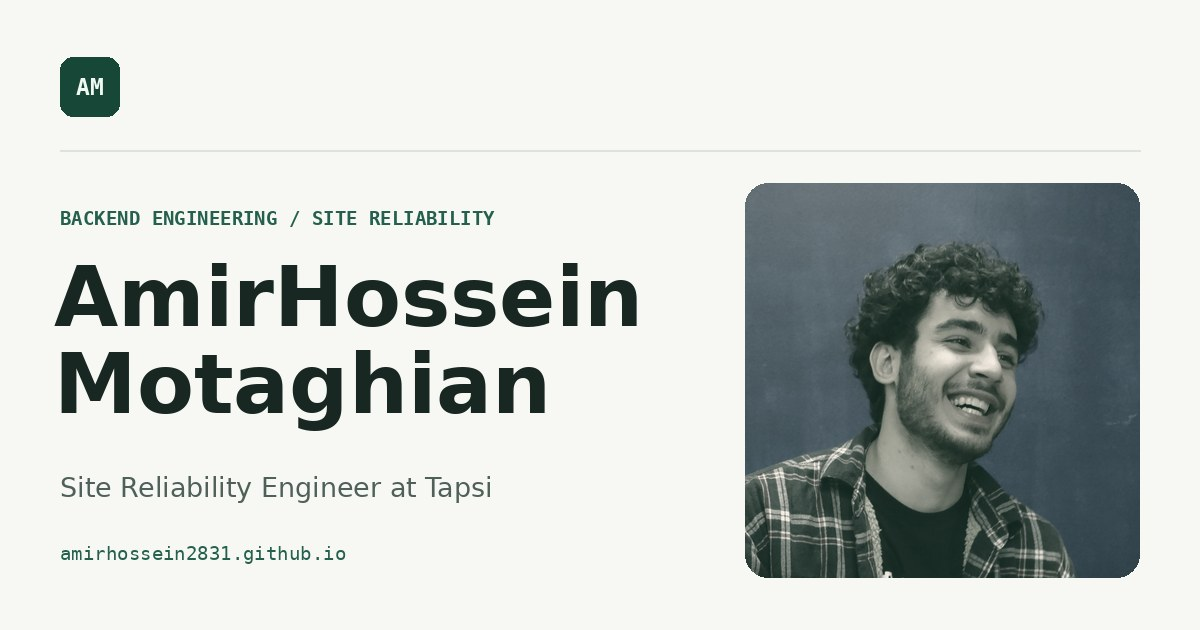
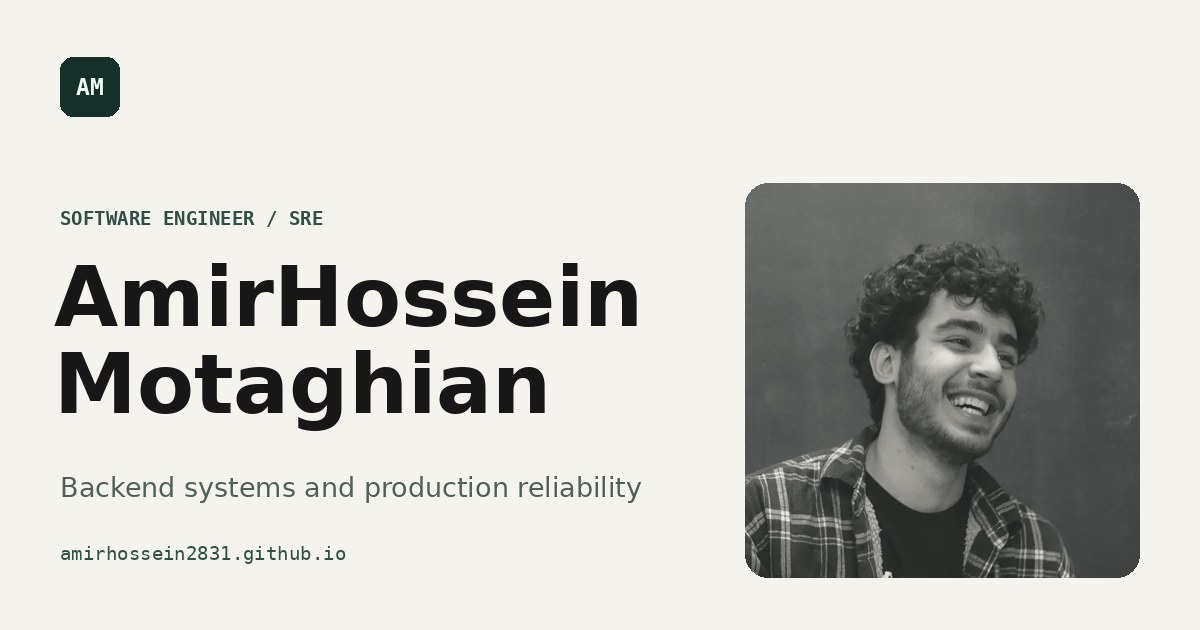
Adapt portfolio to software engineer SRE direction

Changed region(s): [[0.0308, 0.754, 0.555, 0.8143], [0.0308, 0.3317, 0.4317, 0.3619], [0.0308, 0.0905, 0.1233, 0.181]]

diff --git a/index.html b/index.html
@@ -3,20 +3,20 @@
 <head>
   <meta charset="utf-8">
   <meta name="viewport" content="width=device-width, initial-scale=1">
-  <title>AmirHossein Motaghian | Backend Engineer &amp; SRE</title>
-  <meta name="description" content="AmirHossein Motaghian is a Site Reliability Engineer at Tapsi. Explore his work on backend systems, Kubernetes, production reliability, and Go projects.">
+  <title>AmirHossein Motaghian | Software Engineer / SRE</title>
+  <meta name="description" content="AmirHossein Motaghian is a Software Engineer / SRE at Tapsi, building backend systems, distributed services, and production reliability tooling.">
   <link rel="canonical" href="https://amirhossein2831.github.io/">
   <meta property="og:type" content="website">
   <meta property="og:site_name" content="AmirHossein Motaghian">
-  <meta property="og:title" content="AmirHossein Motaghian | Backend Engineer &amp; SRE">
-  <meta property="og:description" content="Backend systems and production reliability. Selected work from Tapsi and public projects in Go and Kubernetes.">
+  <meta property="og:title" content="AmirHossein Motaghian | Software Engineer / SRE">
+  <meta property="og:description" content="Software Engineer / SRE building backend systems, distributed services, and production reliability tooling at Tapsi.">
   <meta property="og:url" content="https://amirhossein2831.github.io/">
   <meta property="og:image" content="https://amirhossein2831.github.io/assets/images/social-card.jpg">
   <meta property="og:image:width" content="1200">
   <meta property="og:image:height" content="630">
-  <meta property="og:image:alt" content="AmirHossein Motaghian — Backend engineering and site reliability">
+  <meta property="og:image:alt" content="AmirHossein Motaghian — Software Engineer / SRE">
   <meta name="twitter:card" content="summary_large_image">
-  <meta name="theme-color" content="#f7f8f4">
+  <meta name="theme-color" content="#f5f3ee">
   <link rel="icon" href="./assets/images/favicon.svg" type="image/svg+xml">
   <link rel="stylesheet" href="./assets/css/site.css">
   <script type="application/ld+json">
@@ -30,7 +30,7 @@
         "name": "AmirHossein Motaghian",
         "url": "https://amirhossein2831.github.io/",
         "image": "https://amirhossein2831.github.io/assets/images/portrait-760.webp",
-        "jobTitle": "Site Reliability Engineer",
+        "jobTitle": "Software Engineer / SRE",
         "worksFor": {"@type": "Organization", "name": "Tapsi", "url": "https://tapsi.ir/"},
         "sameAs": [
           "https://github.com/amirhossein2831",
@@ -40,7 +40,7 @@
     }
   </script>
 </head>
-<body>
+<body class="home-page">
   <a class="skip-link" href="#main-content">Skip to content</a>
   <header class="site-header">
     <div class="wrap header-inner">
@@ -50,9 +50,9 @@
       </a>
       <nav aria-label="Main">
         <ul class="nav-list">
-          <li><a href="./index.html" aria-current="page">Home</a></li>
-          <li><a href="./projects.html">Work</a></li>
-          <li><a href="./more.html">Experience</a></li>
+          <li><a href="#about" aria-current="page">About</a></li>
+          <li><a href="./more.html#skills">Skills</a></li>
+          <li><a href="./projects.html">Portfolio</a></li>
           <li><a href="#contact">Contact</a></li>
         </ul>
       </nav>
@@ -60,56 +60,81 @@
   </header>
 
   <main id="main-content" class="wrap" tabindex="-1">
-    <section class="hero" aria-labelledby="intro-title">
-      <div class="hero-copy">
-        <p class="eyebrow"><span class="marker" aria-hidden="true"></span> Backend engineering / Site reliability</p>
-        <h1 id="intro-title">AmirHossein<br>Motaghian</h1>
-        <p class="hero-lead">I build backend services and keep them reliable in production.</p>
-        <p class="intro-copy">I’m a Site Reliability Engineer at <a href="https://tapsi.ir/">Tapsi</a>, a ride-hailing platform in Iran. I work on outage detection, incident response, and failover across datacenters. Before moving into SRE, I built event-driven services and real-time rider features at Tapsi.</p>
-        <div class="actions">
-          <a class="button button-primary" href="#selected-work">Explore my work <span aria-hidden="true">↓</span></a>
-          <a class="button button-secondary" href="./more.html">View experience <span aria-hidden="true">→</span></a>
+    <section id="about" class="hero" aria-labelledby="intro-title">
+      <div class="hero-panel hero-panel-light">
+        <div class="hero-copy">
+          <p class="hero-greeting">Hi, I’m</p>
+          <h1 id="intro-title">AmirHossein<br>Motaghian</h1>
+          <p class="hero-role">Software Engineer <span aria-hidden="true">/</span> SRE</p>
+          <p class="intro-copy">I build backend systems and the infrastructure that keeps them dependable. At <a href="https://tapsi.ir/">Tapsi</a>, I work across application code, observability, incident response, and multi-datacenter reliability.</p>
+          <div class="actions">
+            <a class="button button-primary" href="./projects.html">View portfolio <span aria-hidden="true">↗</span></a>
+            <a class="button button-secondary" href="mailto:amirmotaghian0994@gmail.com">Contact me <span aria-hidden="true">↗</span></a>
+          </div>
         </div>
       </div>
-      <figure class="portrait">
-        <div class="portrait-image">
-          <img src="./assets/images/portrait-380.webp" srcset="./assets/images/portrait-380.webp 380w, ./assets/images/portrait-760.webp 760w" sizes="(max-width: 28rem) calc(100vw - 2.5rem), 380px" width="380" height="380" alt="Portrait of AmirHossein Motaghian" fetchpriority="high">
+      <div class="hero-panel hero-panel-dark">
+        <div class="hero-side-content">
+          <p class="hero-side-label">Backend systems<br>&amp; reliability</p>
+          <figure class="portrait">
+            <div class="portrait-image">
+              <img src="./assets/images/portrait-380.webp" srcset="./assets/images/portrait-380.webp 380w, ./assets/images/portrait-760.webp 760w" sizes="(max-width: 44rem) calc(100vw - 2.5rem), 380px" width="380" height="380" alt="Portrait of AmirHossein Motaghian" fetchpriority="high">
+            </div>
+            <figcaption><span class="marker" aria-hidden="true"></span> Tehran, Iran</figcaption>
+          </figure>
+          <p class="hero-side-note">Turning complex systems into clear, observable, and resilient services.</p>
         </div>
-        <figcaption><span class="marker" aria-hidden="true"></span> SRE at Tapsi <span class="portrait-location">Tehran, Iran</span></figcaption>
-      </figure>
+      </div>
     </section>
 
-    <dl class="highlights" aria-label="Production work at a glance">
-      <div><dt>200 engineers</dt><dd>Across 20 teams supported by Heimdall</dd></div>
-      <div><dt>2 datacenters</dt><dd>Covered by active-standby failover design</dd></div>
-      <div><dt>50%+ fewer HTTP 429s</dt><dd>After Nginx rate-limit and caching fixes</dd></div>
-    </dl>
+    <section class="about-strip" aria-label="Professional focus">
+      <p class="eyebrow">Software engineering / Site reliability</p>
+      <p class="about-statement">From event-driven services to production incident management, I enjoy working where application code meets the systems underneath it.</p>
+      <div class="about-links">
+        <a class="text-link" href="./more.html">Read my experience <span aria-hidden="true">→</span></a>
+        <a class="text-link" href="https://github.com/amirhossein2831">GitHub profile <span aria-hidden="true">↗</span></a>
+      </div>
+    </section>
+
+    <section class="impact-section" aria-labelledby="impact-title">
+      <div class="section-heading">
+        <div>
+          <p class="eyebrow">01 / At a glance</p>
+          <h2 id="impact-title">Work that reaches production</h2>
+        </div>
+      </div>
+      <dl class="highlights" aria-label="Production work at a glance">
+        <div><dt>200 engineers</dt><dd>Across 20 teams supported by Heimdall</dd></div>
+        <div><dt>2 datacenters</dt><dd>Covered by active-standby failover design</dd></div>
+        <div><dt>50%+ fewer HTTP 429s</dt><dd>After Nginx rate-limit and caching fixes</dd></div>
+      </dl>
+    </section>
 
     <section id="selected-work" class="section" aria-labelledby="work-title">
       <div class="section-heading">
         <div>
-          <p class="eyebrow">01 / Selected work</p>
+          <p class="eyebrow">02 / Selected work</p>
           <h2 id="work-title">Projects and production work</h2>
         </div>
-        <a class="text-link" href="./projects.html">See all work <span aria-hidden="true">→</span></a>
+        <a class="text-link" href="./projects.html">See full portfolio <span aria-hidden="true">→</span></a>
       </div>
       <div class="card-grid">
         <article class="card">
           <p class="card-type"><span aria-hidden="true">01</span> Production · Tapsi</p>
           <h3><a href="./projects.html#heimdall">Heimdall</a></h3>
-          <p>I built Tapsi’s in-house incident management platform to bring alert routing, escalation, triage, and postmortems into one place.</p>
+          <p>Incident lifecycle, alert escalation, structured postmortems, and availability reporting in one internal platform.</p>
           <p class="card-detail">Replaced Grafana OnCall</p>
         </article>
         <article class="card">
           <p class="card-type"><span aria-hidden="true">02</span> Production · Tapsi</p>
           <h3><a href="./projects.html#event-streaming">Kafka event streaming</a></h3>
-          <p>I built producers and consumers and designed partitioning, retries, and backpressure handling for services under sustained load.</p>
+          <p>Event producers, consumers, partitioning, retries, consumer groups, and backpressure-aware services.</p>
           <p class="card-detail">Kafka · Project Reactor</p>
         </article>
         <article class="card">
           <p class="card-type"><span aria-hidden="true">03</span> Public project</p>
           <h3><a href="./projects.html#rbac-monitor">Kubernetes RBAC monitor</a></h3>
-          <p>A read-only Go service that records Kubernetes permissions over time and shows which monitored users have sensitive access.</p>
+          <p>A read-only Go service that records permissions over time and surfaces sensitive access through observability tooling.</p>
           <p class="card-detail">Go · Kubernetes · Prometheus</p>
         </article>
       </div>
@@ -117,9 +142,9 @@
 
     <section id="contact" class="contact-panel" aria-labelledby="contact-title">
       <div>
-        <p class="eyebrow">02 / Contact</p>
-        <h2 id="contact-title">Get in touch</h2>
-        <p>I’m interested in backend, platform engineering, and SRE roles. I’m open to relocating internationally from March 2027.</p>
+        <p class="eyebrow">03 / Contact</p>
+        <h2 id="contact-title">Let’s build reliable systems.</h2>
+        <p>I’m interested in backend, platform engineering, and SRE roles. I’m open to international relocation from March 2027.</p>
       </div>
       <div class="actions">
         <a class="button button-light" href="mailto:amirmotaghian0994@gmail.com">Email me <span aria-hidden="true">↗</span></a>

diff --git a/assets/css/site.css b/assets/css/site.css
@@ -1,15 +1,15 @@
 /* Theme and foundations */
 :root {
   color-scheme: light;
-  --background: #f7f8f4;
+  --background: #f5f3ee;
   --surface: #fff;
-  --ink: #182722;
+  --ink: #171717;
   --muted: #4f6059;
-  --accent: #24604d;
-  --accent-dark: #174736;
-  --tint: #e7f0e9;
-  --line: #dbe3dc;
-  --strong-line: #b8c7bd;
+  --accent: #314f47;
+  --accent-dark: #162f29;
+  --tint: #e7ebe5;
+  --line: #dadbd6;
+  --strong-line: #aeb8b0;
   --radius: 1rem;
   --gutter: clamp(1.25rem, 4vw, 3rem);
   --section-space: clamp(3.25rem, 7vw, 6.25rem);
@@ -125,11 +125,48 @@ img { display: block; max-inline-size: 100%; }
 /* Home */
 .hero {
   display: grid;
-  grid-template-columns: minmax(0, 1fr) minmax(15rem, 23.75rem);
-  align-items: center;
-  gap: clamp(2rem, 6.5vw, 6rem);
-  padding-block: clamp(3rem, 7.5vw, 6.5rem) clamp(2.75rem, 6vw, 4.75rem);
+  grid-template-columns: minmax(0, 1fr) minmax(18rem, 0.85fr);
+  gap: 0;
+  margin-inline: calc(var(--gutter) * -1);
+  padding-block: clamp(2rem, 4vw, 3.5rem);
 }
+
+.hero-panel { min-height: min(39rem, 72vw); }
+.hero-panel-light { display: flex; align-items: center; padding: clamp(2rem, 6vw, 6rem) var(--gutter); background: var(--background); }
+.hero-panel-dark { display: grid; place-items: center; padding: clamp(2rem, 5vw, 4rem); background: #080a09; color: #f4f2eb; }
+.hero-copy { width: min(100%, 35rem); margin-inline: auto; }
+.hero-greeting { font-size: clamp(1.05rem, 2vw, 1.35rem); }
+.hero-role { margin-top: 0.75rem; color: var(--accent); font-size: clamp(1.1rem, 2.1vw, 1.45rem); font-weight: 650; }
+.hero-role span { padding-inline: 0.3rem; color: var(--strong-line); }
+.hero-copy .intro-copy { max-width: 41ch; margin-top: 1.35rem; }
+.hero-side-content { display: flex; flex-direction: column; width: min(100%, 20rem); height: 100%; }
+.hero-side-label { font: 700 0.75rem var(--mono); letter-spacing: 0.08em; line-height: 1.6; text-transform: uppercase; }
+.hero-side-note { margin-top: auto; color: #b6b9b3; font-size: 0.9rem; }
+.hero-panel-dark .portrait { width: 100%; margin-block: auto 2rem; }
+.hero-panel-dark .portrait-image { border: 0; border-radius: 0; background: #222624; }
+.hero-panel-dark .portrait img { filter: grayscale(1) contrast(0.94); mix-blend-mode: screen; opacity: 0.9; }
+.hero-panel-dark .portrait figcaption { color: #e8e7df; }
+.hero-panel-dark .marker { color: #fff; }
+.hero-panel-dark .portrait-location { color: #b6b9b3; }
+
+.home-page .site-header { background: var(--background); }
+.home-page .hero h1 {
+  margin-block: 0.65rem 0;
+  font-size: clamp(3.1rem, 7.2vw, 7rem);
+}
+.home-page .hero-panel-dark .portrait-location { margin-inline-start: auto; }
+.about-strip {
+  display: grid;
+  grid-template-columns: minmax(10rem, 0.55fr) minmax(0, 1.55fr) minmax(10rem, 0.65fr);
+  align-items: start;
+  gap: 1rem 2rem;
+  padding-block: clamp(2.5rem, 6vw, 5.25rem);
+  border-bottom: 1px solid var(--line);
+}
+.about-statement { font-size: clamp(1.3rem, 2.6vw, 2rem); font-weight: 580; letter-spacing: -0.035em; line-height: 1.25; text-wrap: balance; }
+.about-links { display: flex; flex-direction: column; align-items: flex-start; gap: 0.15rem; }
+.impact-section { margin-top: var(--section-space); }
+.impact-section .section-heading { margin-bottom: 1.25rem; }
 
 .eyebrow, .card-type, .role-meta {
   color: var(--accent);
@@ -410,12 +447,20 @@ img { display: block; max-inline-size: 100%; }
 .footer-inner > p { color: var(--muted); font-size: 0.9rem; }
 
 @media (max-width: 58rem) {
-  .hero { grid-template-columns: minmax(0, 1fr) minmax(12rem, 35%); }
+  .hero { grid-template-columns: minmax(0, 1.1fr) minmax(15rem, 0.9fr); }
+  .about-strip { grid-template-columns: minmax(9rem, 0.55fr) minmax(0, 1.45fr); }
+  .about-links { grid-column: 2; }
 }
 
 @media (max-width: 44rem) {
   .header-inner { flex-wrap: wrap; justify-content: flex-start; gap: 0.25rem 1.25rem; padding-block: 0.65rem; }
   .hero { grid-template-columns: minmax(0, 1fr); }
+  .hero-panel { min-height: auto; }
+  .hero-panel-light { padding-block: 3rem; }
+  .hero-panel-dark { min-height: 29rem; }
+  .hero-side-content { min-height: 25rem; }
+  .about-strip { grid-template-columns: minmax(0, 1fr); }
+  .about-links { grid-column: auto; }
   .hero h1 { font-size: clamp(2.7rem, 10vw, 4.25rem); }
   .card-grid, .experience-grid { grid-template-columns: minmax(0, 1fr); }
 }

diff --git a/more.html b/more.html
@@ -3,12 +3,12 @@
 <head>
   <meta charset="utf-8">
   <meta name="viewport" content="width=device-width, initial-scale=1">
-  <title>Experience &amp; Skills | AmirHossein Motaghian</title>
+  <title>Skills &amp; Experience | AmirHossein Motaghian — Software Engineer / SRE</title>
   <meta name="description" content="AmirHossein Motaghian’s engineering experience at Tapsi, Savis, and Bahar Samane Shargh, plus technical skills and education at Amirkabir University of Technology.">
   <link rel="canonical" href="https://amirhossein2831.github.io/more.html">
   <meta property="og:type" content="website">
   <meta property="og:site_name" content="AmirHossein Motaghian">
-  <meta property="og:title" content="Experience &amp; Skills | AmirHossein Motaghian">
+  <meta property="og:title" content="Skills &amp; Experience | AmirHossein Motaghian — Software Engineer / SRE">
   <meta property="og:description" content="From backend development to site reliability at Tapsi: roles, skills, education, and interests.">
   <meta property="og:url" content="https://amirhossein2831.github.io/more.html">
   <meta property="og:image" content="https://amirhossein2831.github.io/assets/images/social-card.jpg">
@@ -30,9 +30,9 @@
       </a>
       <nav aria-label="Main">
         <ul class="nav-list">
-          <li><a href="./index.html">Home</a></li>
-          <li><a href="./projects.html">Work</a></li>
-          <li><a href="./more.html" aria-current="page">Experience</a></li>
+          <li><a href="./index.html#about">About</a></li>
+          <li><a href="./more.html#skills" aria-current="page">Skills</a></li>
+          <li><a href="./projects.html">Portfolio</a></li>
           <li><a href="./index.html#contact">Contact</a></li>
         </ul>
       </nav>
@@ -96,7 +96,7 @@
       </section>
 
       <div class="sidebar">
-        <section class="section" aria-labelledby="skills-title">
+        <section id="skills" class="section" aria-labelledby="skills-title">
           <div class="section-heading">
             <div>
               <p class="eyebrow">02 / Toolbox</p>

diff --git a/projects.html b/projects.html
@@ -3,12 +3,12 @@
 <head>
   <meta charset="utf-8">
   <meta name="viewport" content="width=device-width, initial-scale=1">
-  <title>Projects &amp; Production Work | AmirHossein Motaghian</title>
+  <title>Portfolio | AmirHossein Motaghian — Software Engineer / SRE</title>
   <meta name="description" content="Selected work by AmirHossein Motaghian: Tapsi’s Heimdall incident platform, Kafka event streaming, datacenter failover, and a public Kubernetes RBAC monitor.">
   <link rel="canonical" href="https://amirhossein2831.github.io/projects.html">
   <meta property="og:type" content="website">
   <meta property="og:site_name" content="AmirHossein Motaghian">
-  <meta property="og:title" content="Projects &amp; Production Work | AmirHossein Motaghian">
+  <meta property="og:title" content="Portfolio | AmirHossein Motaghian — Software Engineer / SRE">
   <meta property="og:description" content="Production work at Tapsi and public backend projects, from incident response and Kafka to Kubernetes RBAC monitoring.">
   <meta property="og:url" content="https://amirhossein2831.github.io/projects.html">
   <meta property="og:image" content="https://amirhossein2831.github.io/assets/images/social-card.jpg">
@@ -30,9 +30,9 @@
       </a>
       <nav aria-label="Main">
         <ul class="nav-list">
-          <li><a href="./index.html">Home</a></li>
-          <li><a href="./projects.html" aria-current="page">Work</a></li>
-          <li><a href="./more.html">Experience</a></li>
+          <li><a href="./index.html#about">About</a></li>
+          <li><a href="./more.html#skills">Skills</a></li>
+          <li><a href="./projects.html" aria-current="page">Portfolio</a></li>
           <li><a href="./index.html#contact">Contact</a></li>
         </ul>
       </nav>
